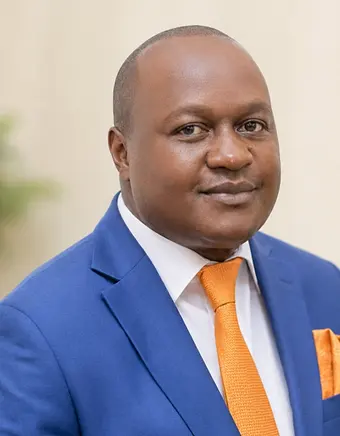
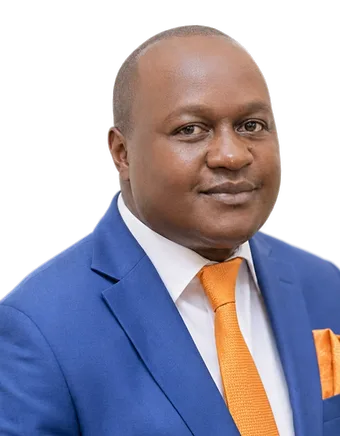
Preloader: background-removed cutout instead of a rectangular photo (#3)
The photo the sketch resolves into now has no background - he floats
on the preloader's own forest ground, same as the sketch does, rather
than a photo rectangle with a room and an out-of-focus plant behind
him. Both layers still read from the same crop box, so registration
is unaffected.

- New src/media/source/nakiyi-portrait-concept-cutout.png, an
  alpha-matted export (rembg, u2net_human_seg). Regeneration command
  documented in tools/build-preloader-sketch.mjs.
- buildPhoto() crops/resizes the cutout with alpha preserved, WebP
  only (jpeg has no alpha channel).
- Dropped the now-unused avif/jpg derivatives and the meaningless
  border-radius on the portrait layer.

Verified: alpha channel present on both derivatives, registration
re-checked against the sketch, full timing/gating suite re-run clean,
renamed asset re-confirmed under a /MP-SITE/ subpath, 12-page x
5-viewport audit and npm run check both clean.

diff --git a/src/styles/preloader.css b/src/styles/preloader.css
@@ -6,9 +6,12 @@
    crop, same geometry, so the sketch is not decoration in front of
    the page but the first mark of the office's own visual language
    (the hillside contours used everywhere else on the site) arriving
-   at the person it represents. It shows once per browser session,
-   never blocks a no-JS visit, and is skipped outright under reduced
-   motion or a metered connection.
+   at the person it represents. The photograph itself has its
+   background removed (see tools/build-preloader-sketch.mjs), so what
+   resolves is him, standing on the same forest ground the sketch
+   already sits on — not a rectangle with a room behind it. It shows
+   once per browser session, never blocks a no-JS visit, and is
+   skipped outright under reduced motion or a metered connection.
    ───────────────────────────────────────────────────────────────── */
 
 .preloader {
@@ -49,8 +52,9 @@
 }
 
 .preloader__portrait {
+  /* No border-radius, no frame: the source has no background left to
+     round the corner of — the image ends at his own silhouette. */
   object-fit: cover;
-  border-radius: var(--r1);
   opacity: 0;
   transform: scale(1.035);
   transition: opacity 820ms var(--ease-out), transform 820ms var(--ease-out);
